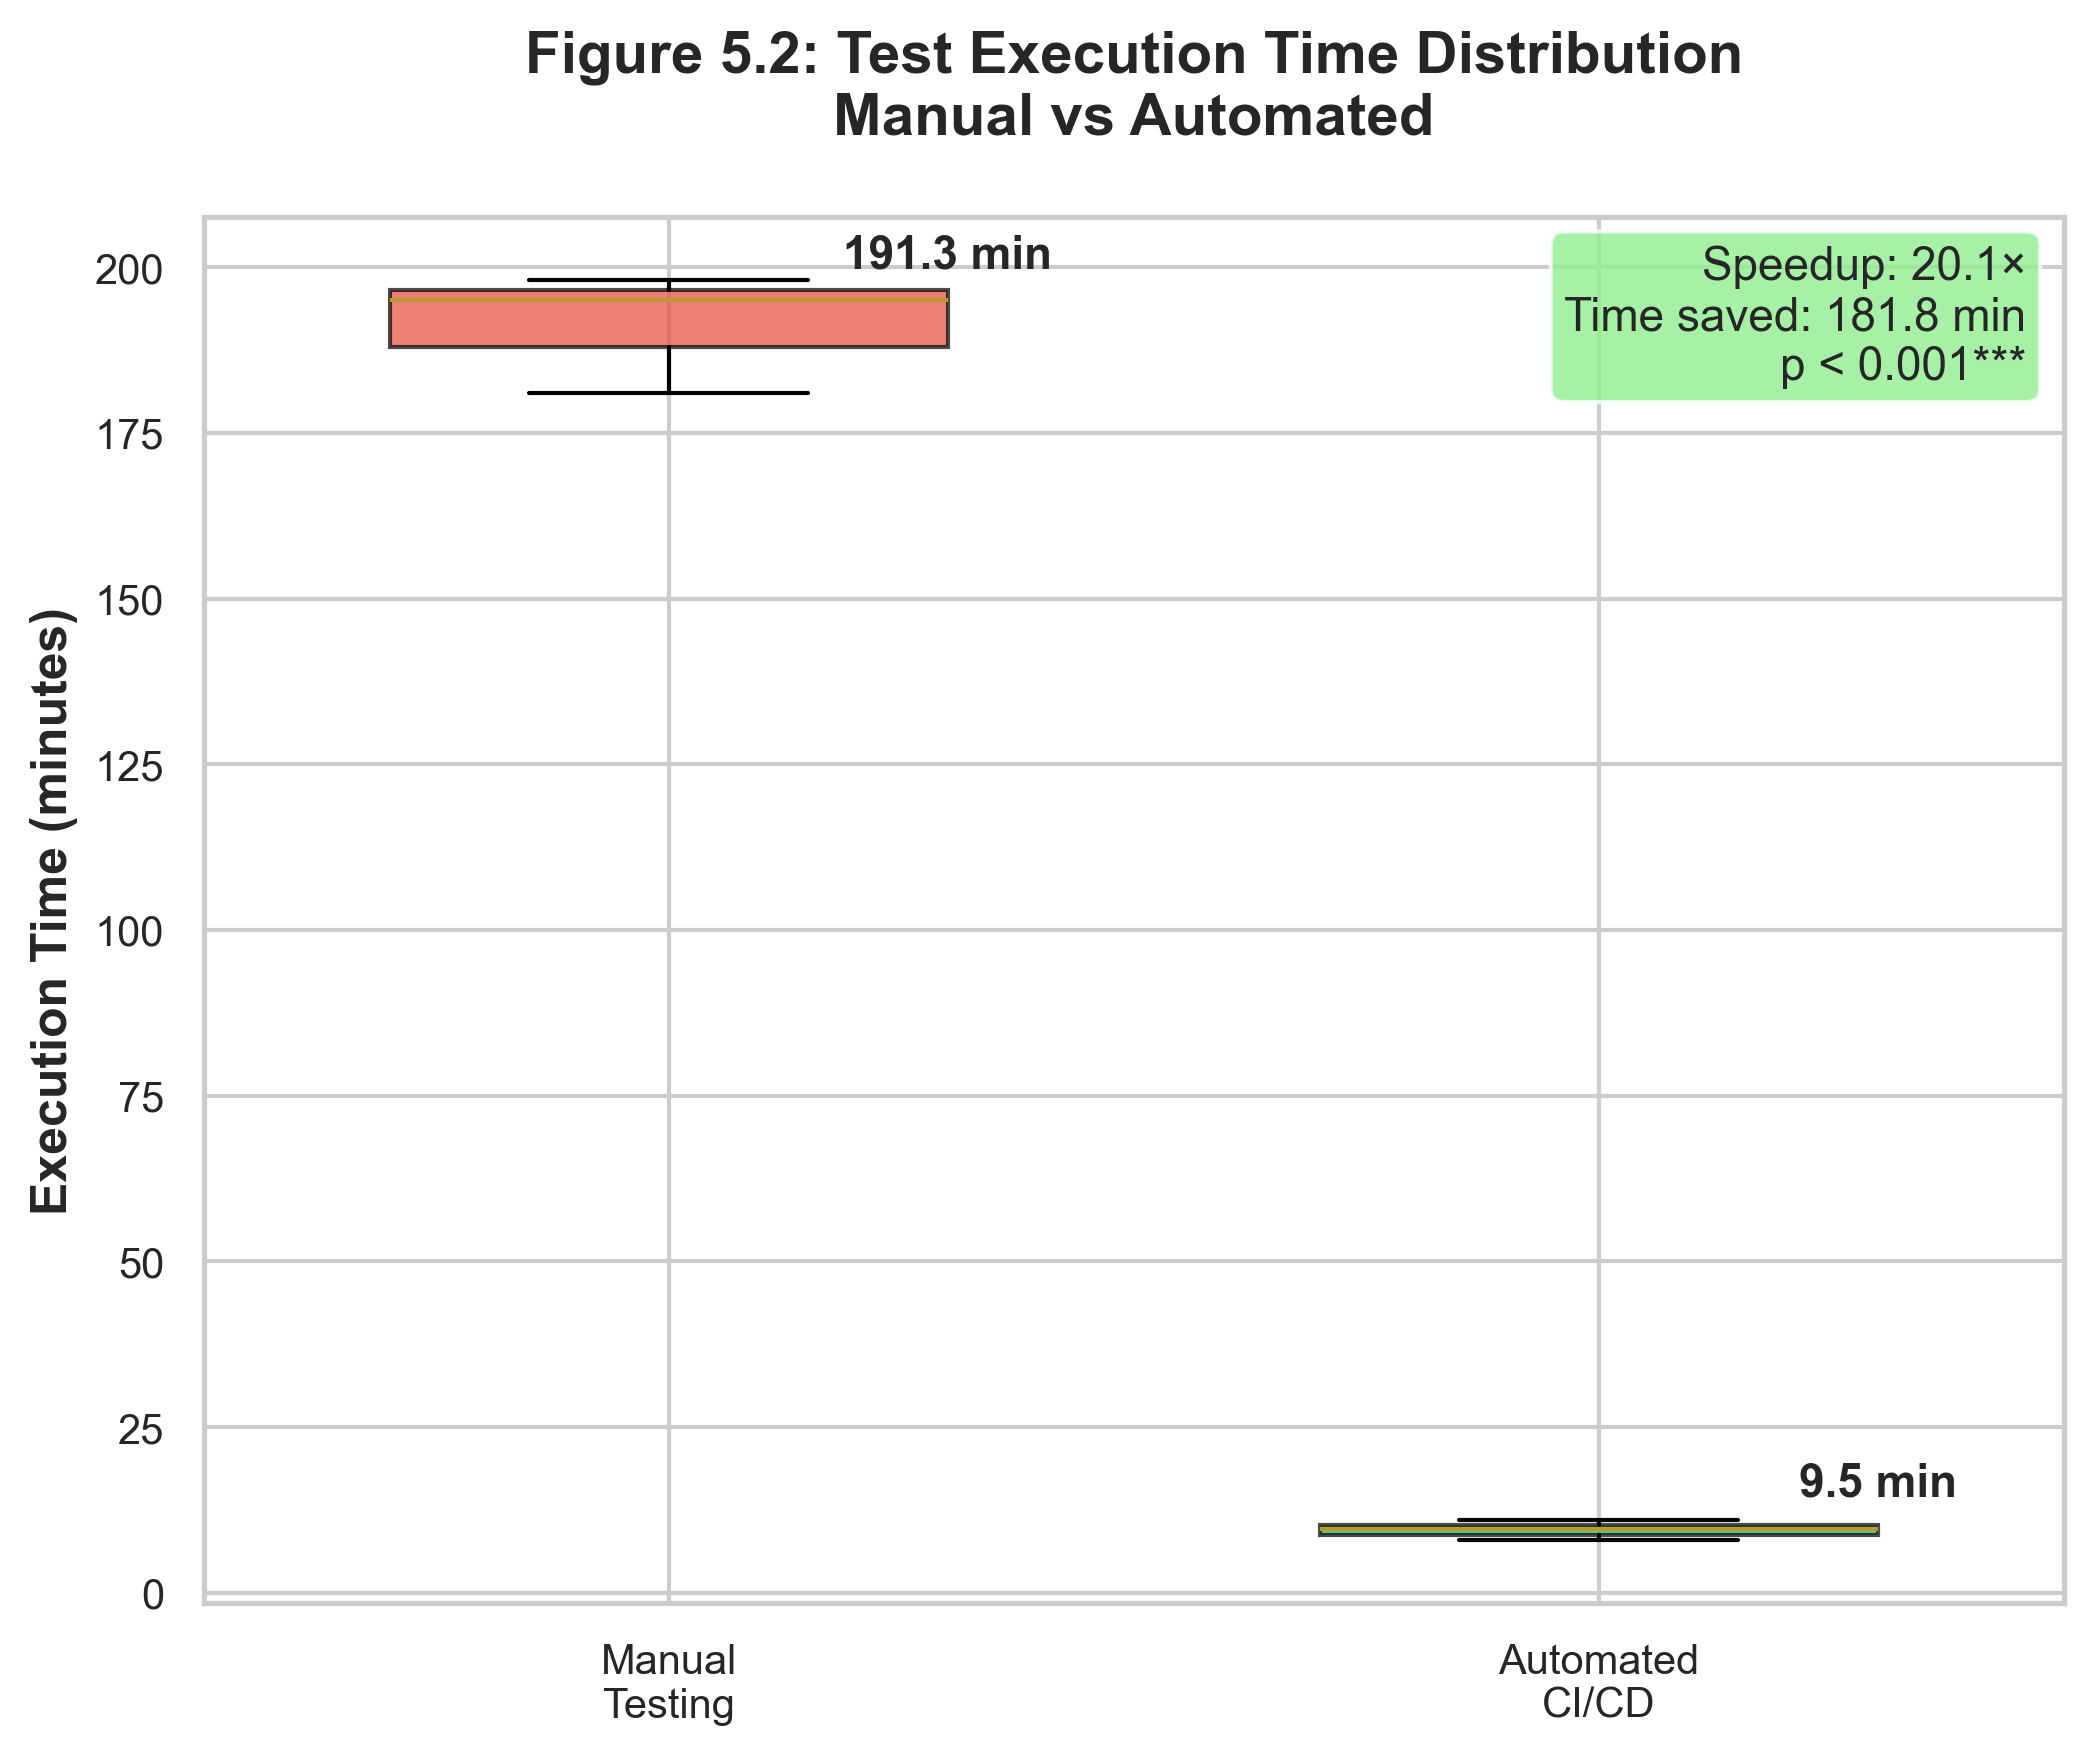
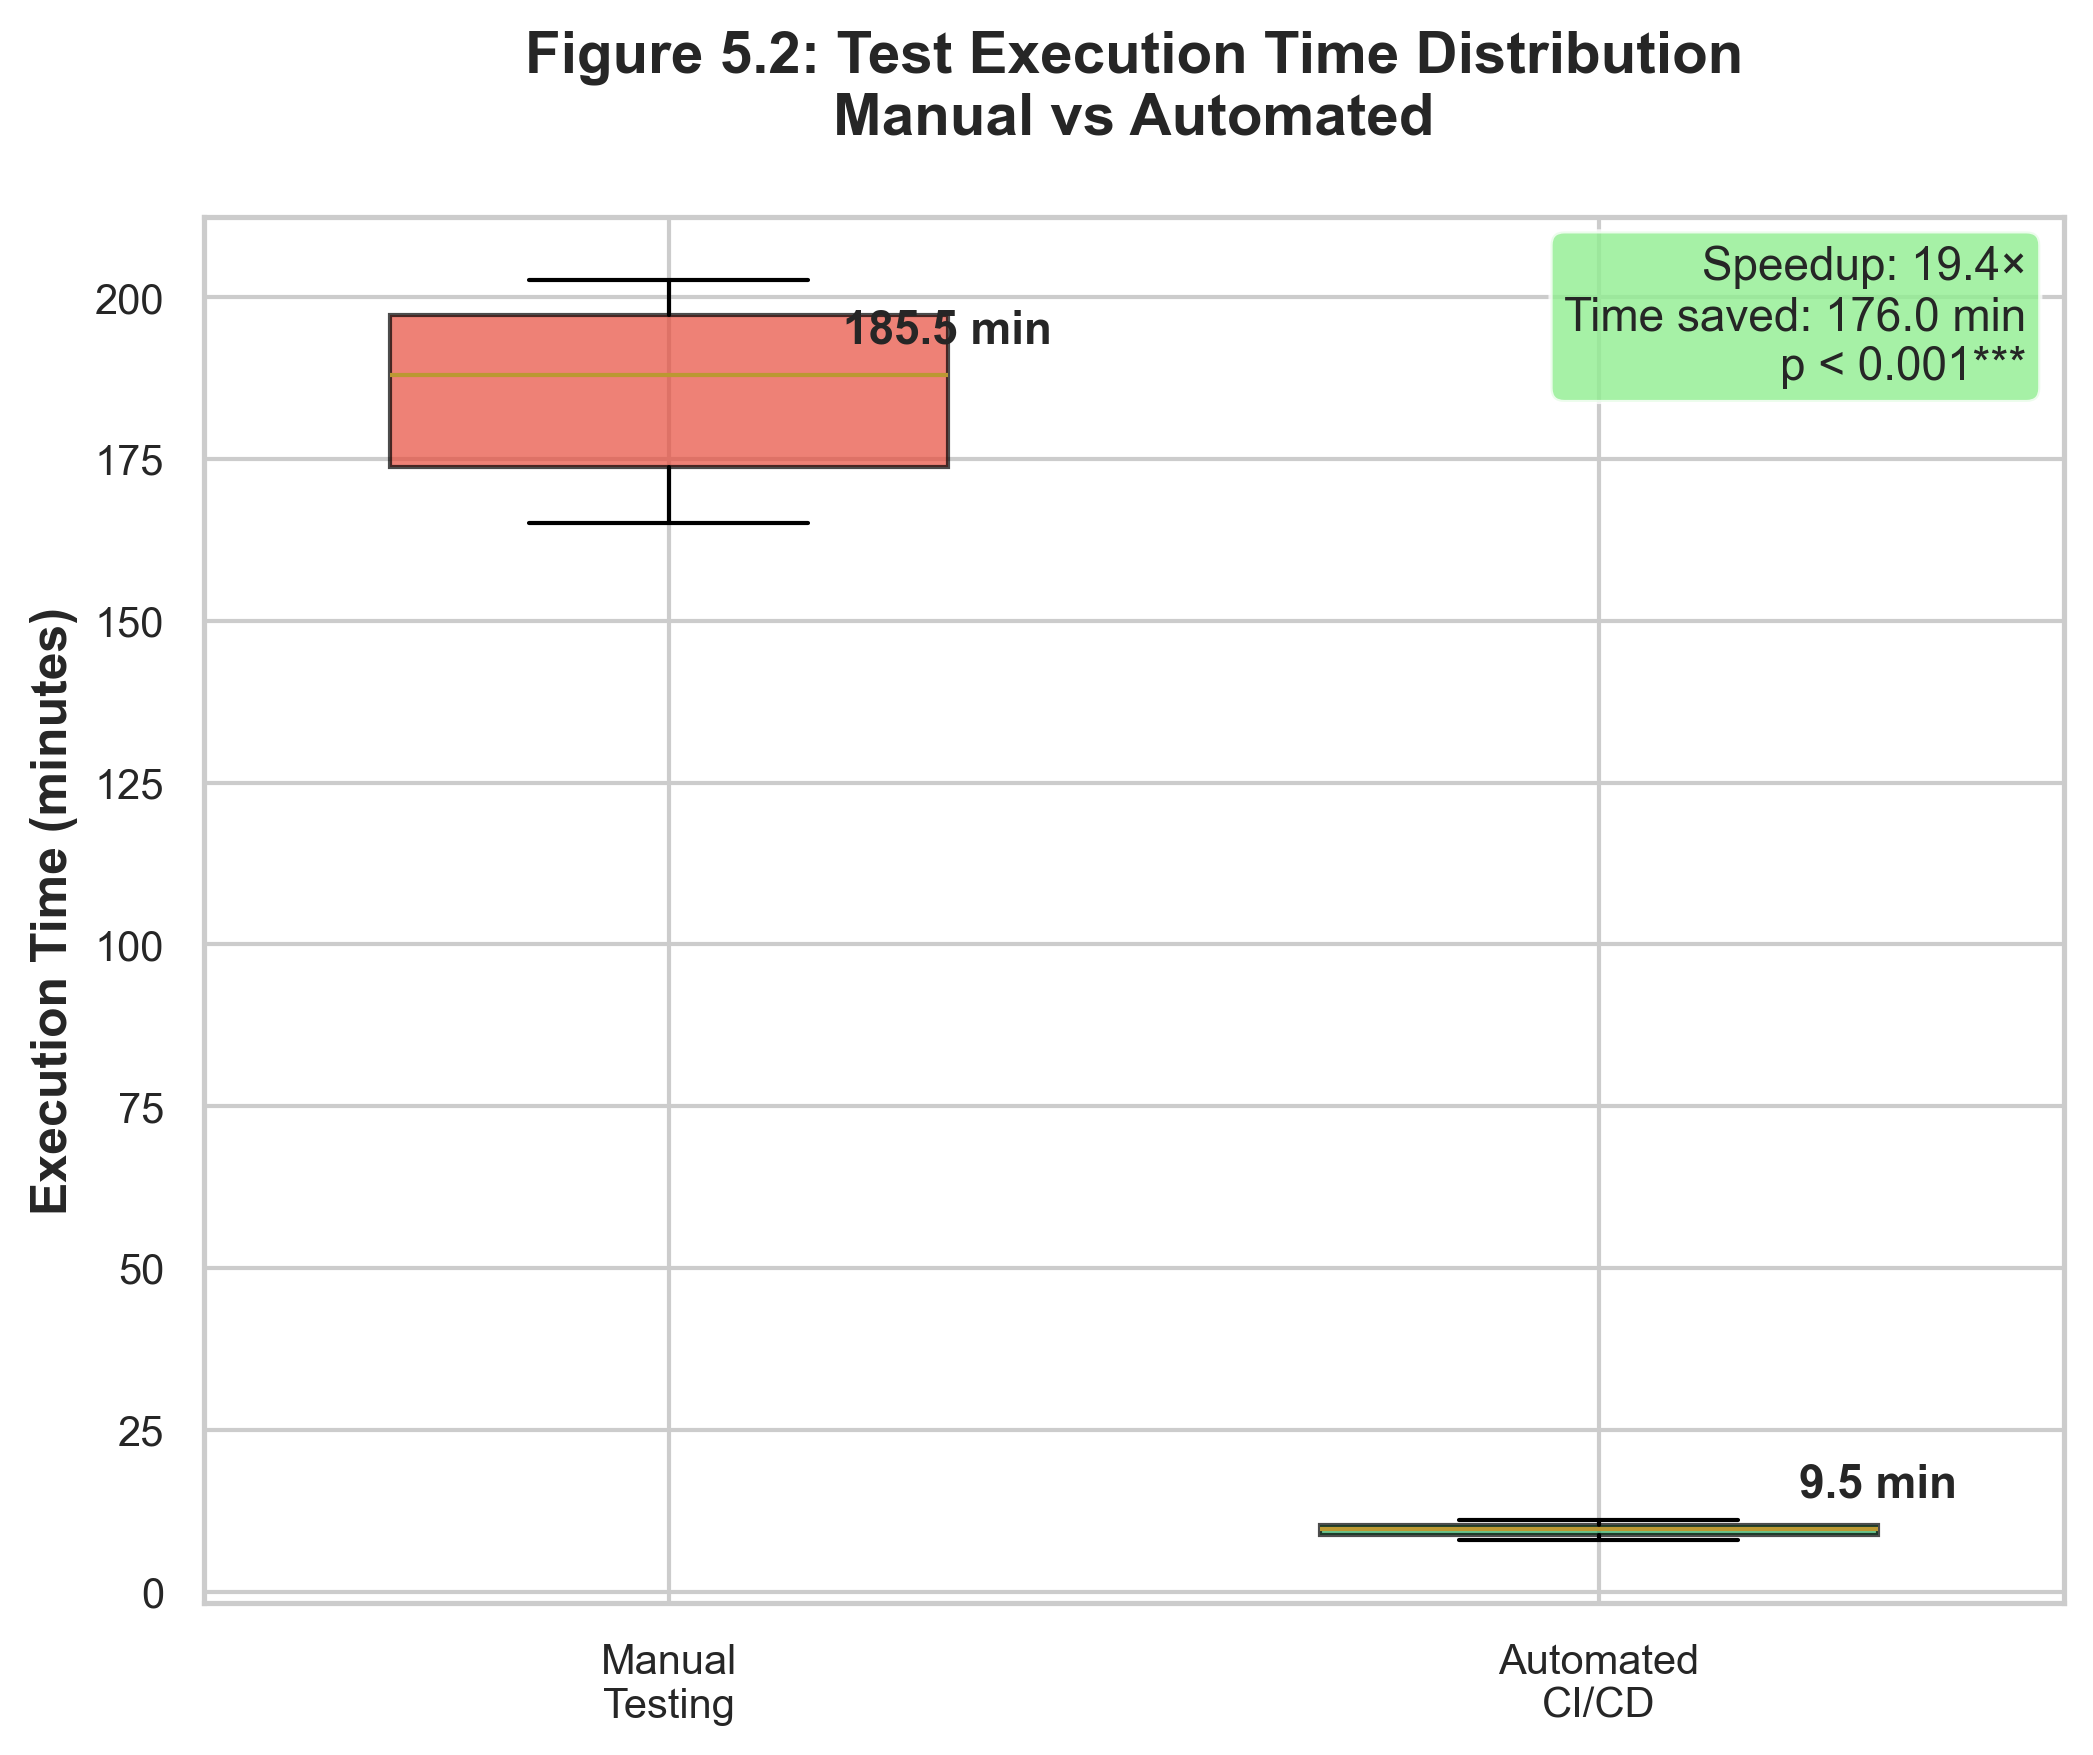
Remove test docs

diff --git a/frontend/frontend/src/hooks/useOrder.ts b/frontend/frontend/src/hooks/useOrder.ts
@@ -54,7 +54,6 @@ const getDocTemplates = (): DocTemplate[] => [
     // Sonstiges
     {type: "Sonstiges Dokument mit komplexem Inhalt (Diplom, Arbeitsbuch, Gerichtsurteil, Erklärung)", label: t('docSonstiges'), price: 0, individualPrice: true, category: 'sonstiges'},
     // Personenstandsurkunden
-    {type: "Geburtssurkunde",        label: t('docGeburtsurkunde'),        price: 2.50, individualPrice: false, category: 'personenstand'},
     {type: "Geburtsurkunde",        label: t('docGeburtsurkunde'),        price: 35.30, individualPrice: false, category: 'personenstand'},
     {type: "Heiratsurkunde",        label: t('docHeiratsurkunde'),        price: 35.30, individualPrice: false, category: 'personenstand'},
     {type: "Sterbeurkunde",         label: t('docSterbeurkunde'),         price: 35.30, individualPrice: false, category: 'personenstand'},

diff --git a/thesis/scripts/statistical_analysis.py b/thesis/scripts/statistical_analysis.py
@@ -115,10 +115,10 @@ def test_rq1_coverage(manual_estimate=45):
 def test_rq2_execution_time():
     """
     RQ2: Execution Time Comparison
-    Compares FULL manual test cycle (sum of all test cases) vs automated pipeline duration.
+    Compares FULL manual test cycle vs automated pipeline duration.
     H0: Automated pipeline time >= Manual cycle time
     H1: Automated pipeline time < Manual cycle time
-    Test: Welch's independent t-test (unequal variances; manual n=3, automated n=20)
+    Test: Welch's independent t-test (unequal variances)
     """
     print("\n" + "=" * 70)
     print("RQ2: EXECUTION TIME ANALYSIS")
@@ -128,22 +128,11 @@ def test_rq2_execution_time():
     manual_df = load_manual_baseline()
     auto_df = load_automated_metrics()
 
-    # Manual: total time to run ALL test cases = one full test cycle
-    # We have 3 runs, so we get 3 cycle times
-    manual_cycle_times = pd.Series([
-        manual_df['run1_time_min'].sum(),
-        manual_df['run2_time_min'].sum(),
-        manual_df['run3_time_min'].sum()
-    ])
+    # Manual: each row is one complete test cycle
+    manual_cycle_times = manual_df['cycle_time_min']
 
-    # Testing-only cycle times (exclude Deployment row) — used for MTTD
-    # MTTD = time until bug detected = occurs during testing, not deployment
-    testing_df = manual_df[manual_df['test_type'] != 'Deployment']
-    testing_cycle_times = pd.Series([
-        testing_df['run1_time_min'].sum(),
-        testing_df['run2_time_min'].sum(),
-        testing_df['run3_time_min'].sum()
-    ])
+    # Testing-only time = cycle minus deployment (used for MTTD)
+    testing_cycle_times = manual_df['cycle_time_min'] - manual_df['deployment_time_min']
     testing_cycle_mean = testing_cycle_times.mean()
     manual_cycle_mean = manual_cycle_times.mean()
     manual_cycle_std = manual_cycle_times.std(ddof=1)
@@ -198,7 +187,7 @@ def test_rq2_execution_time():
     }
 
     # Print results
-    print(f"\nManual Testing (full cycle = {len(manual_df)} test cases):")
+    print(f"\nManual Testing (full cycle, n={n_manual} runs):")
     print(f"  Cycle time: {manual_cycle_mean:.2f} minutes (SD={manual_cycle_std:.2f}, n={n_manual})")
     print(f"\nAutomated Pipeline (all tests in one run):")
     print(f"  Mean: {auto_times.mean():.4f} minutes (SD={auto_std:.4f}, n={n_auto})")
@@ -233,10 +222,9 @@ def test_rq2_bug_detection():
     manual_df = load_manual_baseline()
     auto_df = load_automated_metrics()
 
-    # Manual: bugs found across all test cases in one cycle
-    manual_bugs_per_cycle = manual_df['bugs_found'].sum()
-    manual_test_cases = len(manual_df)
-    manual_cases_with_bugs = (manual_df['bugs_found'] > 0).sum()
+    # Manual: bugs found per cycle (same test suite each run)
+    manual_bugs_per_cycle = int(manual_df['bugs_found'].iloc[0])
+    manual_test_cases = 19  # test cases excluding deployment
 
     # Automated: CI failures on master = regressions caught
     auto_df['date'] = pd.to_datetime(auto_df['date'])
@@ -262,12 +250,7 @@ def test_rq2_bug_detection():
     # --- MTTD Statistical Analysis ---
     # Manual MTTD = half of testing-only cycle time (uniform probability assumption)
     # Deployment excluded: bugs are detected during testing, not deployment
-    testing_df = manual_df[manual_df['test_type'] != 'Deployment']
-    testing_cycle_mean = pd.Series([
-        testing_df['run1_time_min'].sum(),
-        testing_df['run2_time_min'].sum(),
-        testing_df['run3_time_min'].sum()
-    ]).mean()
+    testing_cycle_mean = (manual_df['cycle_time_min'] - manual_df['deployment_time_min']).mean()
     manual_mttd = testing_cycle_mean / 2
     # Automated MTTD = failed run duration (time to detect regression)
     failed_runs = master_runs[master_runs['conclusion'] == 'failure']['duration_minutes']
@@ -285,7 +268,6 @@ def test_rq2_bug_detection():
         "test": "Descriptive comparison",
         "manual_bugs_per_cycle": manual_bugs_per_cycle,
         "manual_test_cases": manual_test_cases,
-        "manual_cases_with_bugs": manual_cases_with_bugs,
         "manual_cycles_per_week": manual_cycles_per_week,
         "manual_bugs_per_week": manual_bugs_per_week,
         "automated_runs_per_week": auto_runs_per_week,
@@ -307,8 +289,7 @@ def test_rq2_bug_detection():
     # Print results
     print(f"\nManual Testing:")
     print(f"  Test cases: {manual_test_cases}")
-    print(f"  Cases with bugs: {manual_cases_with_bugs}")
-    print(f"  Total bugs found per cycle: {manual_bugs_per_cycle}")
+    print(f"  Bugs found per cycle: {manual_bugs_per_cycle}")
     print(f"  Frequency: ~{manual_cycles_per_week} cycle/week")
     print(f"  Bugs caught per week: ~{manual_bugs_per_week}")
     print(f"\nAutomated Testing (CI/CD):")
@@ -414,8 +395,7 @@ def test_rq4_roi():
     quarters_weeks = 12          # Analysis period
 
     # Per-cycle time savings (delta_t) — identical for both scenarios
-    manual_df['avg_time'] = manual_df[['run1_time_min', 'run2_time_min', 'run3_time_min']].mean(axis=1)
-    manual_time_per_cycle = manual_df['avg_time'].sum()
+    manual_time_per_cycle = manual_df['cycle_time_min'].mean()
     successful_runs = auto_df[auto_df['conclusion'] == 'success']
     auto_time_per_cycle = successful_runs['duration_minutes'].mean()
 

diff --git a/thesis/scripts/generate_charts.py b/thesis/scripts/generate_charts.py
@@ -119,13 +119,9 @@ def figure_5_1_coverage_comparison(results):
 def figure_5_2_execution_time_boxplot(results, df_manual=None, df_ci=None):
     """Box plot: Manual vs Automated execution time"""
 
-    # Manual: full cycle times (sum of all test cases per run)
+    # Manual: full cycle times (one value per run)
     if df_manual is not None:
-        manual_times = [
-            df_manual['run1_time_min'].sum(),
-            df_manual['run2_time_min'].sum(),
-            df_manual['run3_time_min'].sum()
-        ]
+        manual_times = df_manual['cycle_time_min'].tolist()
     else:
         manual_times = [results['rq2_time']['manual_cycle_mean']] * 3
 

diff --git a/backend/backend/base/utils.py b/backend/backend/base/utils.py
@@ -4,7 +4,6 @@ from decimal import Decimal
 def get_doc_price(doc_type):
     doc_prices = {
         "Geburtsurkunde": Decimal('35.30'),
-        "Geburtssurkunde": Decimal('2.50'),
         "Heiratsurkunde": Decimal('35.30'),
         "Sterbeurkunde": Decimal('35.30'),
         "Scheidungsurkunde": Decimal('35.30'),
